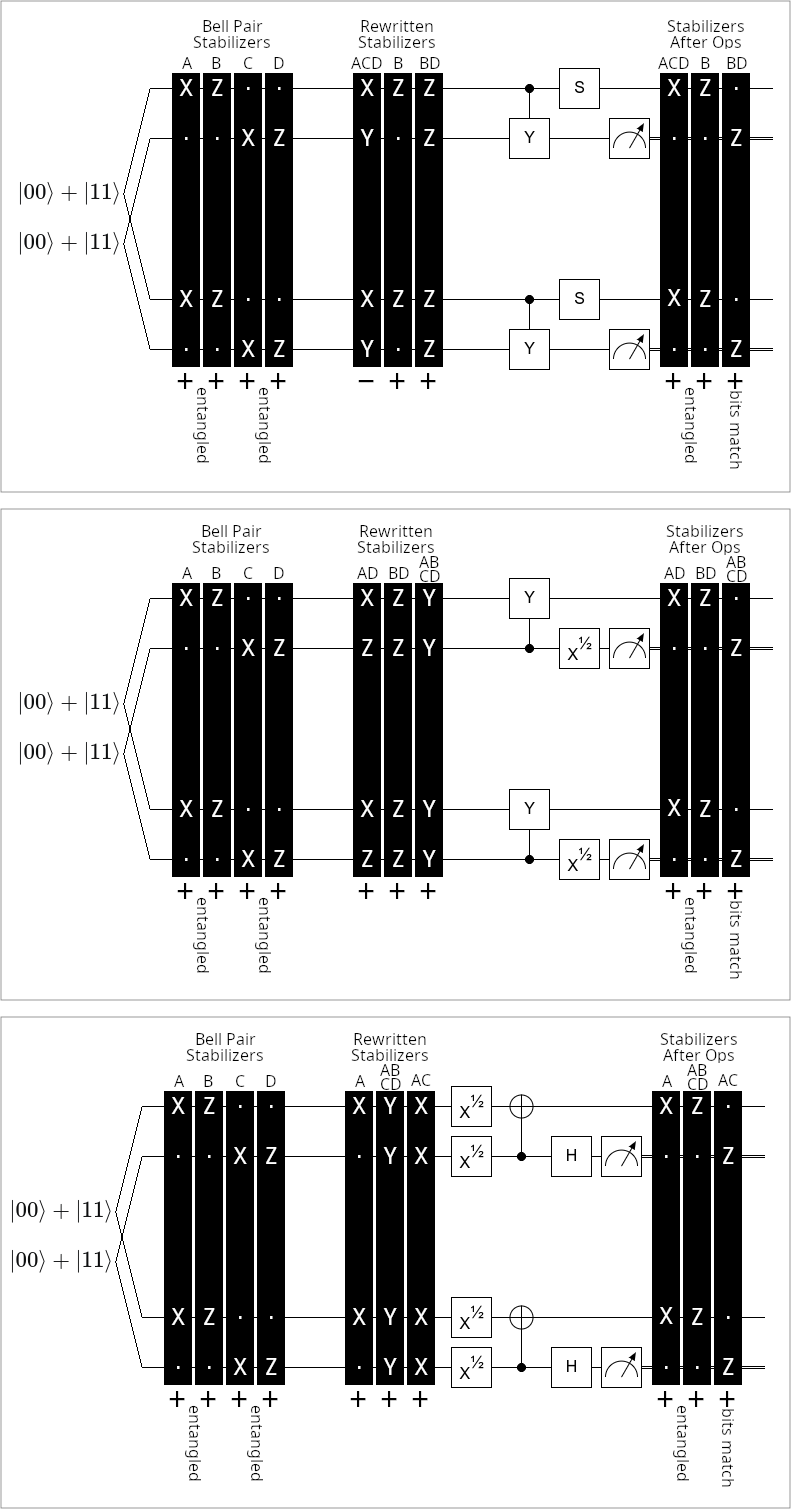
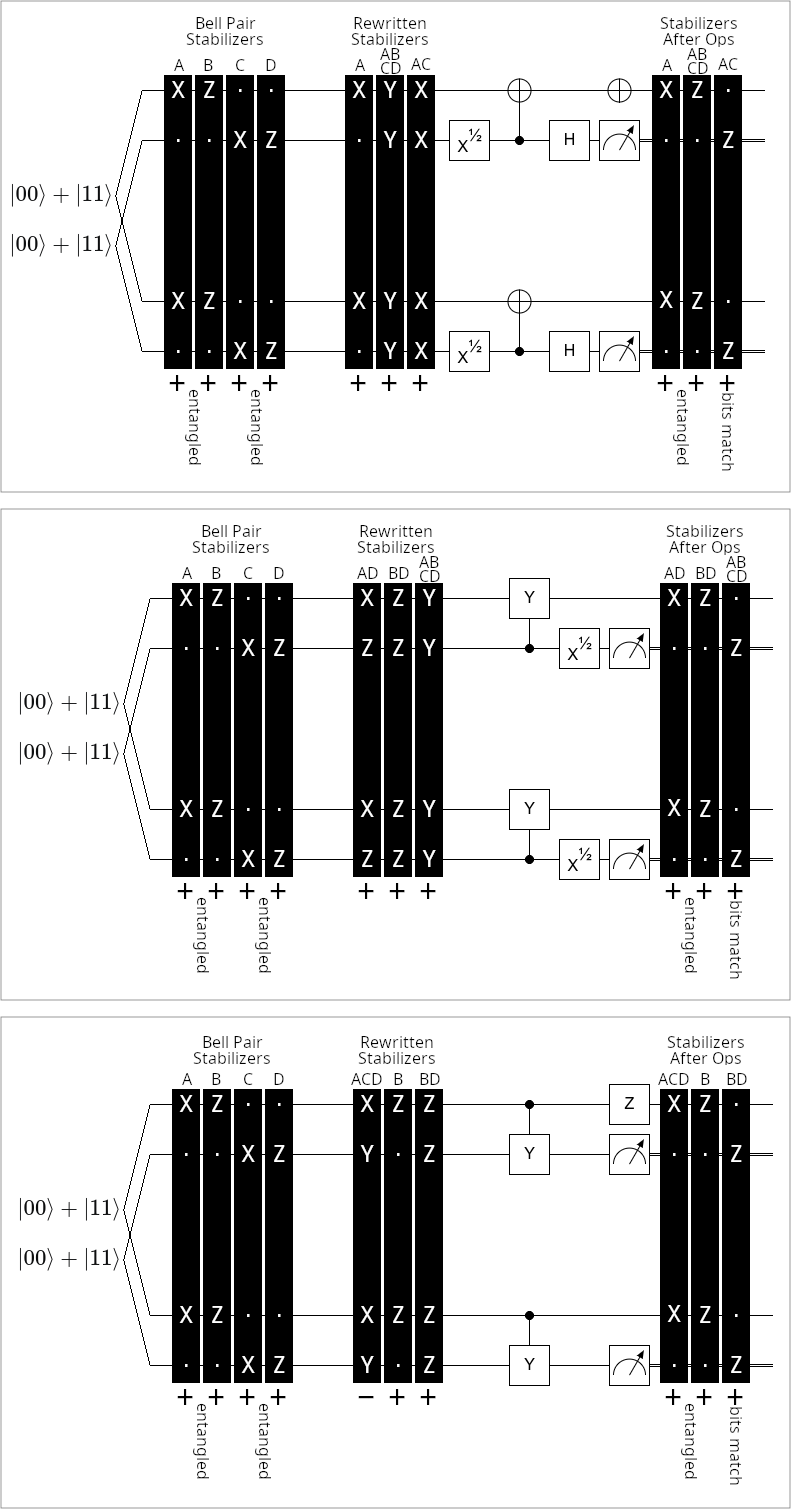
Fix issues in v1 of the paper - Fix location of attached ancillary files (anc/ instead of assets/) - Fix incorrect Compare_P and Distill_P diagrams - Change title "Ridiculously Compact" -> "Tetrationally Compact" - Cite entanglement pumping as precedent for boosting - Punch up the abstract

diff --git a/main.tex b/main.tex
@@ -104,7 +104,7 @@ literate={*}{{\char42}}1
 \newcommand{\definitionref}[1]{\hyperref[definition:#1]{Definition~\ref*{definition:#1}}}
 
 \begin{document}
-\title{Ridiculously Compact Entanglement Purification}
+\title{Tetrationally Compact Entanglement Purification}
 
 \date{\today}
 \author{Craig Gidney}
@@ -115,8 +115,7 @@ literate={*}{{\char42}}1
 This paper shows that entanglement can be purified using very little storage, assuming the only source of noise is in the quantum channel being used to share the entanglement.
 Entangled pairs with a target infidelity of $\epsilon$ can be created in $\Tilde{O}(\log \frac{1}{\epsilon})$ time using $O(\log^{\ast} \frac{1}{\epsilon})$ storage space, where $\log^{\ast}$ is the iterated logarithm.
 This is achieved by using multiple stages of error detection, with boosting within each stage.
-Concretely, the paper shows that 9 qubits of noiseless storage is enough to turn entanglement with an infidelity of $1/3$ into way-better-than-anything-you'll-ever-need entanglement with an infidelity of $10^{-78}$.
-Alternatively, for the truly discerning, 11 qubits is enough to reach an infidelity of $10^{-1000000000000000000000000000}$.
+For example, the paper shows that 11 qubits of noiseless storage is enough to turn entanglement with an infidelity of $1/3$ into entanglement with an infidelity of $10^{-1000000000000000000000000000}$.
 \end{abstract}
 
 \textbf{Data availability}: All code written for this paper is included in its attached ancillary files.
@@ -212,9 +211,10 @@ See \fig{distill_blocks} for circuits implementing these details correctly.
     }
     \caption{
         The operations executed when distilling with a rep code in each basis.
-        Each $\text{Compare}_P$ circuit transforms the input operator $+PP$ into the measured operator $+IZ$; this is the most important function of the circuit.
-        The other details of each $\text{Compare}_P$ circuit determine the exact way in which input sign errors propagate into output sign errors.
-        It's impossible to pick sign propagation rules that can't be made to work, so I'm not advocating for these $\text{Compare}_P$ circuits over others, but the analysis in the rest of the paper uses the sign propagation rules of these specific circuits.
+        Each $\text{Compare}_P$ circuit has a measurement flow $+PP \rightarrow (-1)^m$ as well as decoding flows $X_L \rightarrow XI$ and $Z_L \rightarrow ZI$.
+        The $P^{P\neq Y}$ gate removes minus signs coming from the fact that $|00\rangle + |11\rangle$ is stabilized by $-YY$ instead of $+YY$.
+        It applies $X$ when $P=X$, $I$ when $P=Y$, and $Z$ when $P=Z$.
+        Note that these circuits are somewhat non-standard, due to the underlying definitions of $X_L$ and $Z_L$ being somewhat non-standard, to control the exact way in which input sign errors propagate into output sign errors.
         The $\text{Distill}_P$ circuit has Alice and Bob each locally run $\text{Compare}_P$, and then use classical communication to compare the results.
         If the results agree, they keep the output qubits.
         Otherwise they discard the output qubits and try again with new inputs.
@@ -232,8 +232,8 @@ Stepping back, a rep code distillation takes two noisy EPR pairs as input.
 It has some chance of detecting an error and discarding.
 Otherwise it succeeds and produces one output.
 See \fig{distill_stabilizers} for diagrams showing how each rep code catches errors.
-To analyze rep code distillation, it's necessary to be able to compute the chance of discarding and the noise model describing the state output upon success.
 
+To analyze rep code distillation, it's necessary to be able to compute the chance of discarding and the noise model describing the state output upon success.
 I'll use $v \stackrel{B}{\star} w$ to represent the probability of a $B$-basis rep code distillation detecting an error.
 I used sympy to enumerate the cases detected by each rep code and symbolically accumulate the probability of a failure.
 The probabilities of a distillation failure for each basis are:
@@ -380,7 +380,7 @@ Therefore, given a target $\epsilon$, alternating between X rep code and Z rep c
 In the previous subsection, each stage distilled copies of the output from the previous stage.
 Distillation was always combining two of the best-so-far state.
 ``Boosting'' is an alternative technique, where a good state is improved by repeatedly merging mediocre states into it.
-(Note: boosting isn't my idea, but I wasn't able to locate where I read about it.)
+(Note: in the literature, ``boosting'' is more commonly called ``pumping''~\cite{dr2003purification}).
 In particular, staging as described in the previous subsection results in states being combined like this:
 
 \begin{equation}

diff --git a/anc/src/epu/rep_code_distillation_test.py b/anc/src/epu/rep_code_distillation_test.py
@@ -1,0 +1,69 @@
+import random
+
+import numpy as np
+import stim
+
+from epu.err_model import ErrModel
+from epu.rep_code_distillation import brute_force_rep_code_distill, distill_x_detect_probability, distill_x, \
+    distill_y_detect_probability, distill_y, distill_z_detect_probability, distill_z, compare_x_circuit, \
+    compare_y_circuit, compare_z_circuit, distill_circuit
+from epu.stabilizer_code import rep_xx, rep_yy, rep_zz
+
+
+def test_brute_force_distill_versus_analytic_distill():
+    w1 = random.random()
+    x1 = random.random()
+    y1 = random.random()
+    z1 = random.random()
+    w2 = random.random()
+    x2 = random.random()
+    y2 = random.random()
+    z2 = random.random()
+    m1 = ErrModel.from_odds(w1, x1, y1, z1)
+    m2 = ErrModel.from_odds(w2, x2, y2, z2)
+
+    pa = distill_x_detect_probability(w1, x1, y1, z1, w2, x2, y2, z2)
+    ma = distill_x(m1, m2)
+    pb, mb = brute_force_rep_code_distill('X', m1, m2)
+    assert np.allclose([pa, ma.x, ma.y, ma.z], [pb, mb.x, mb.y, mb.z], atol=1e-6, rtol=1e-8)
+
+    pa = distill_y_detect_probability(w1, x1, y1, z1, w2, x2, y2, z2)
+    ma = distill_y(m1, m2)
+    pb, mb = brute_force_rep_code_distill('Y', m1, m2)
+    assert np.allclose([pa, ma.x, ma.y, ma.z], [pb, mb.x, mb.y, mb.z], atol=1e-6, rtol=1e-8)
+
+    pa = distill_z_detect_probability(w1, x1, y1, z1, w2, x2, y2, z2)
+    ma = distill_z(m1, m2)
+    pb, mb = brute_force_rep_code_distill('Z', m1, m2)
+    assert np.allclose([pa, ma.x, ma.y, ma.z], [pb, mb.x, mb.y, mb.z], atol=1e-6, rtol=1e-8)
+
+
+def test_compare_circuits():
+    cx = compare_x_circuit()
+    assert cx.has_flow(start=rep_xx.stabilizers[0], measurements=[0])
+    assert cx.has_flow(start=rep_xx.obs_xs[0], end=stim.PauliString("X_"))
+    assert cx.has_flow(start=rep_xx.obs_zs[0], end=stim.PauliString("Z_"))
+
+    cy = compare_y_circuit()
+    assert cy.has_flow(start=rep_yy.stabilizers[0], measurements=[0])
+    assert cy.has_flow(start=rep_yy.obs_xs[0], end=stim.PauliString("X_"))
+    assert cy.has_flow(start=rep_yy.obs_zs[0], end=stim.PauliString("Z_"))
+
+    cz = compare_z_circuit()
+    assert cz.has_flow(start=rep_zz.stabilizers[0], measurements=[0])
+    assert cz.has_flow(start=rep_zz.obs_xs[0], end=stim.PauliString("X_"))
+    assert cz.has_flow(start=rep_zz.obs_zs[0], end=stim.PauliString("Z_"))
+
+
+def test_distill_circuits():
+    dx = distill_circuit('X')
+    assert dx.has_flow(end=stim.PauliString('X_X_'))
+    assert dx.has_flow(end=stim.PauliString('Z_Z_'))
+
+    dy = distill_circuit('Y')
+    assert dy.has_flow(end=stim.PauliString('X_X_'))
+    assert dy.has_flow(end=stim.PauliString('Z_Z_'))
+
+    dz = distill_circuit('Z')
+    assert dz.has_flow(end=stim.PauliString('X_X_'))
+    assert dz.has_flow(end=stim.PauliString('Z_Z_'))

diff --git a/anc/src/epu/rep_code_distillation.py b/anc/src/epu/rep_code_distillation.py
@@ -144,3 +144,50 @@ def distill_y(a: ErrModel, b: ErrModel) -> ErrModel:
 def distill_z(a: ErrModel, b: ErrModel) -> ErrModel:
     w, x, y, z = distill_z_raw(a.w, a.x, a.y, a.z, b.w, b.x, b.y, b.z)
     return ErrModel.from_odds(w, x, y, z)
+
+
+def compare_x_circuit() -> stim.Circuit:
+    return stim.Circuit("""
+        SQRT_X 1
+        CX 1 0
+        H 1
+        M 1
+    """)
+
+
+def compare_y_circuit() -> stim.Circuit:
+    return stim.Circuit("""
+        CY 1 0
+        SQRT_X 1
+        M 1
+    """)
+
+
+def compare_z_circuit() -> stim.Circuit:
+    return stim.Circuit("""
+        CY 0 1
+        M 1
+    """)
+
+
+def distill_circuit(basis: str) -> stim.Circuit:
+    if basis == 'X':
+        c = compare_x_circuit()
+    elif basis == 'Y':
+        c = compare_y_circuit()
+    elif basis == 'Z':
+        c = compare_z_circuit()
+    else:
+        raise NotImplementedError(f'{basis=}')
+    d = stim.Circuit("""
+        R 0 1 2 3
+        H 0 1
+        CX 0 2 1 3
+    """)
+    for inst in c:
+        d.append(inst)
+        d.append(inst.name, [e.qubit_value + 2 for e in inst.targets_copy()])
+
+    if basis in 'XZ':
+        d.append(basis, [0])
+    return d

diff --git a/README.md b/README.md
@@ -1,8 +1,11 @@
-# Code for "Ridiculously Compact Entanglement Purification"
+# Code for "Tetrationally Compact Entanglement Purification"
 
-This repository contains the source code used for testing the claims in the paper
-"Ridiculously Compact Entanglement Purification".
+This repository contains the latex, and python code, for the paper
+"Tetrationally Compact Entanglement Purification".
 
-The `src/epu` directory contains python code for distilling with rep codes.
+Index:
 
-The `src/tools` directory contains scripts computing information used in the paper.
+- `anc/src/epu/`: directory containing python code for distilling with rep codes.
+- `anc/src/tools/`: directory contains scripts computing information used in the paper.
+- `assets/`: directory with images for figures in the paper
+- `main.tex`: latex of the paper
